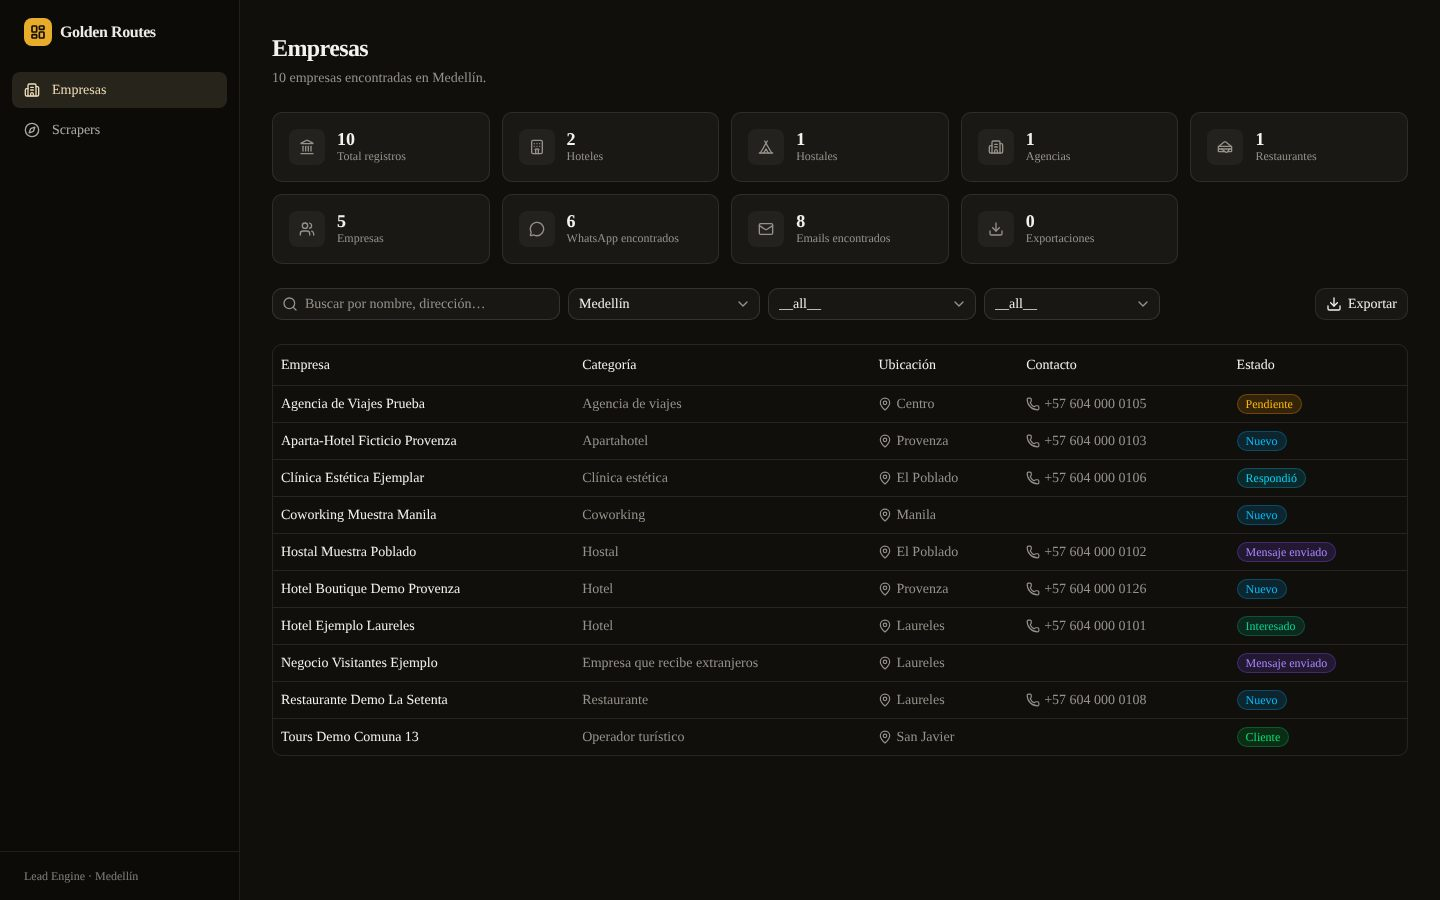
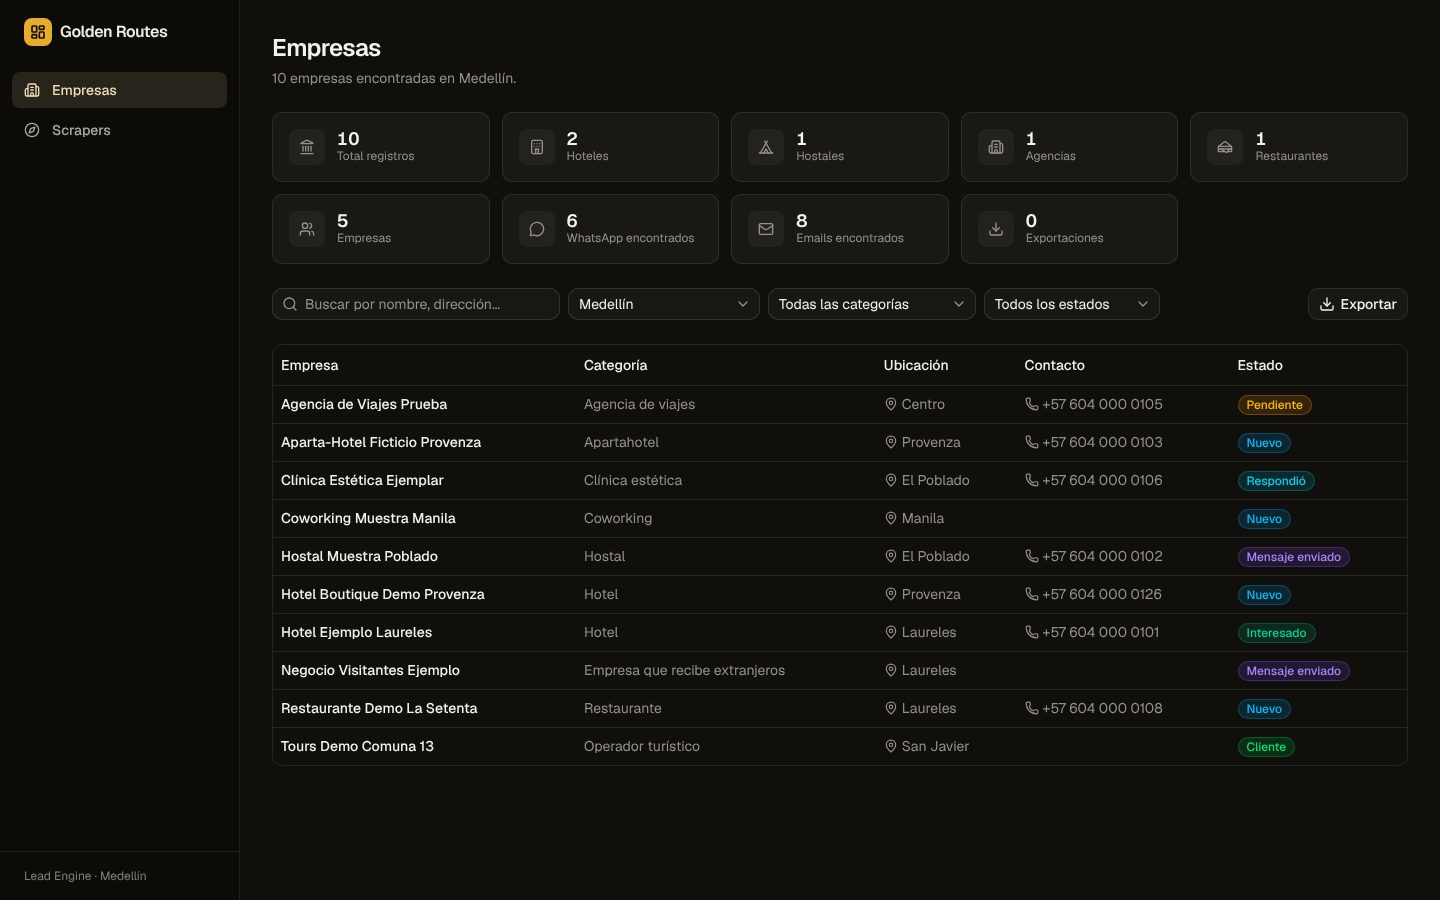
feat: Lead Engine screens
Claude-Session: https://claude.ai/code/session_01Gt2RV3oSJrdiiFE24924Nv

diff --git a/lib/screens.ts b/lib/screens.ts
@@ -4,6 +4,11 @@ import type { Screenshot } from "./types";
 // Kept apart from the project copy so both languages share one list; alt text
 // is English and Spanish.
 export const SCREENS: Record<string, Screenshot[]> = {
+  "lead-engine": [
+    { src: "/screens/leadengine-dashboard.jpg", device: "desktop", alt: { en: "Businesses dashboard: counters, filters and CRM status per lead (sample data)", es: "Panel de empresas: contadores, filtros y estado CRM por lead (datos de ejemplo)" } },
+    { src: "/screens/leadengine-detail.jpg", device: "desktop", alt: { en: "Lead detail: contact channels, allowed pipeline moves and notes", es: "Detalle del lead: canales de contacto, movimientos permitidos del pipeline y notas" } },
+    { src: "/screens/leadengine-runs.jpg", device: "desktop", alt: { en: "Connectors and run history, with resume on a failed run", es: "Conectores e historial de ejecuciones, con reanudar en una fallida" } },
+  ],
   "sedona-scapes": [
     { src: "/screens/sedona-home.jpg", device: "desktop", alt: { en: "Guest site: hero with date search", es: "Sitio de huéspedes: portada con búsqueda por fechas" } },
     { src: "/screens/sedona-property-booking.jpg", device: "desktop", alt: { en: "Property page with amenities and booking panel", es: "Página de propiedad con amenidades y panel de reserva" } },
